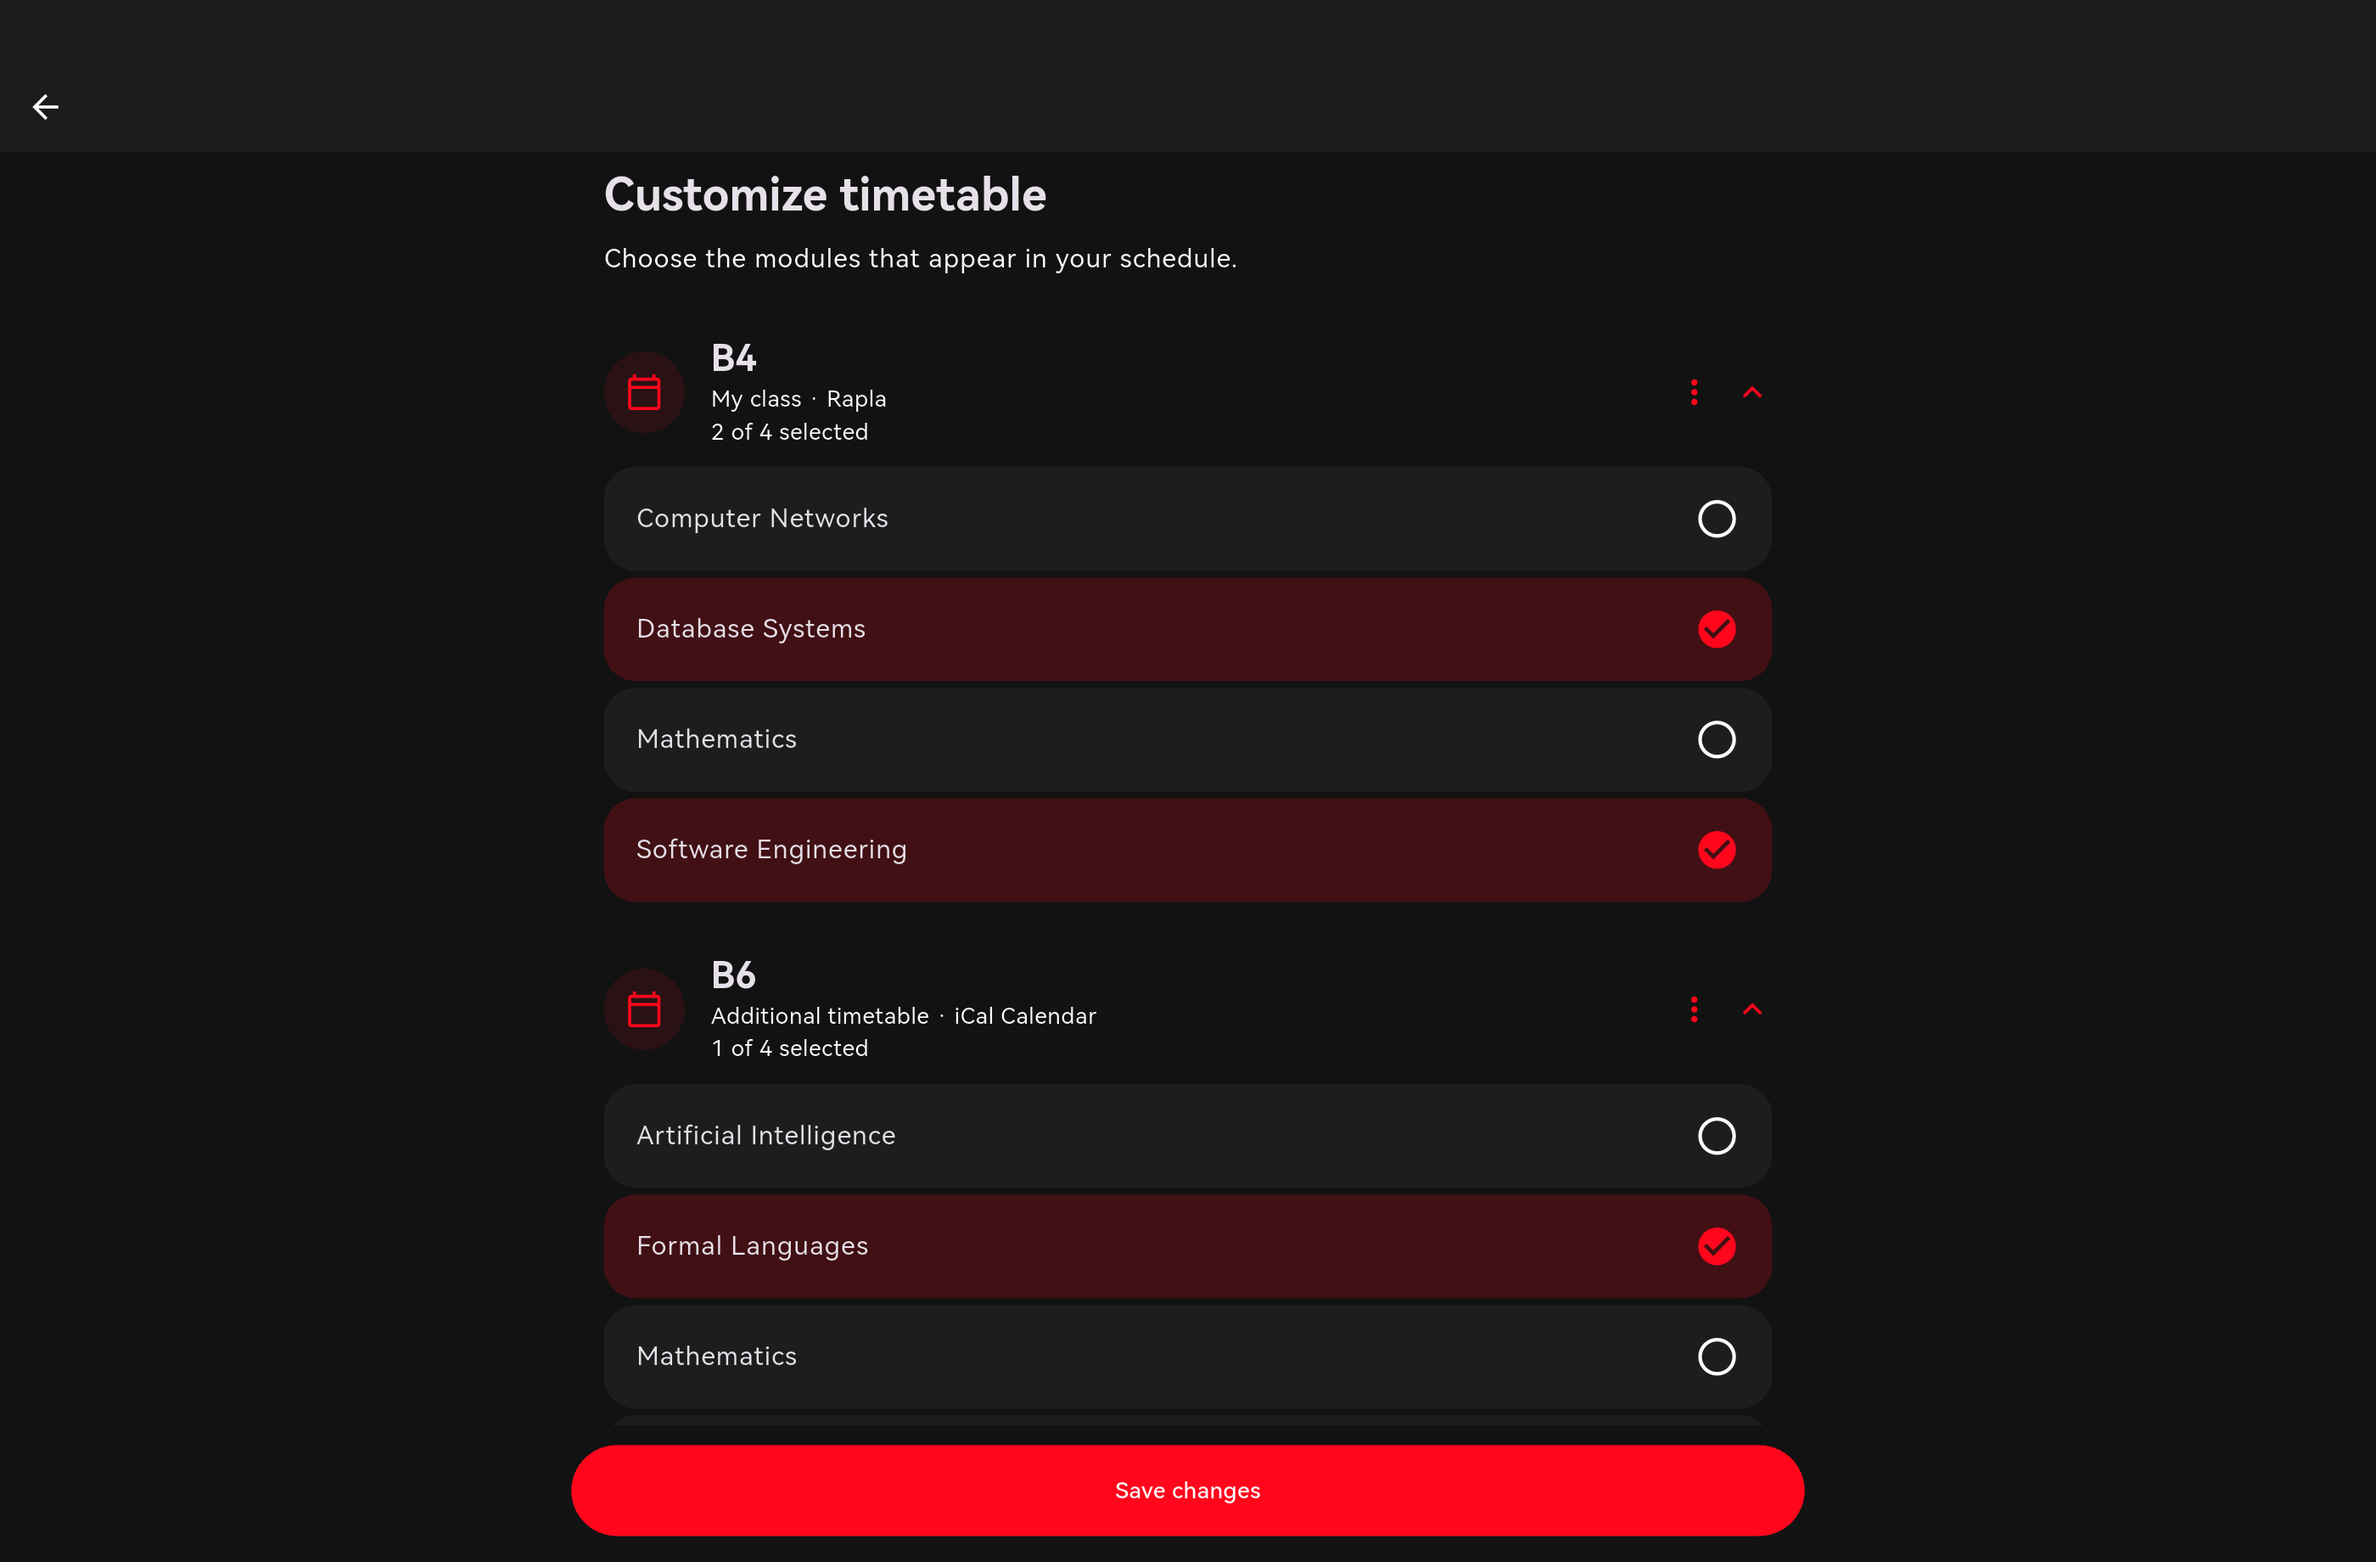
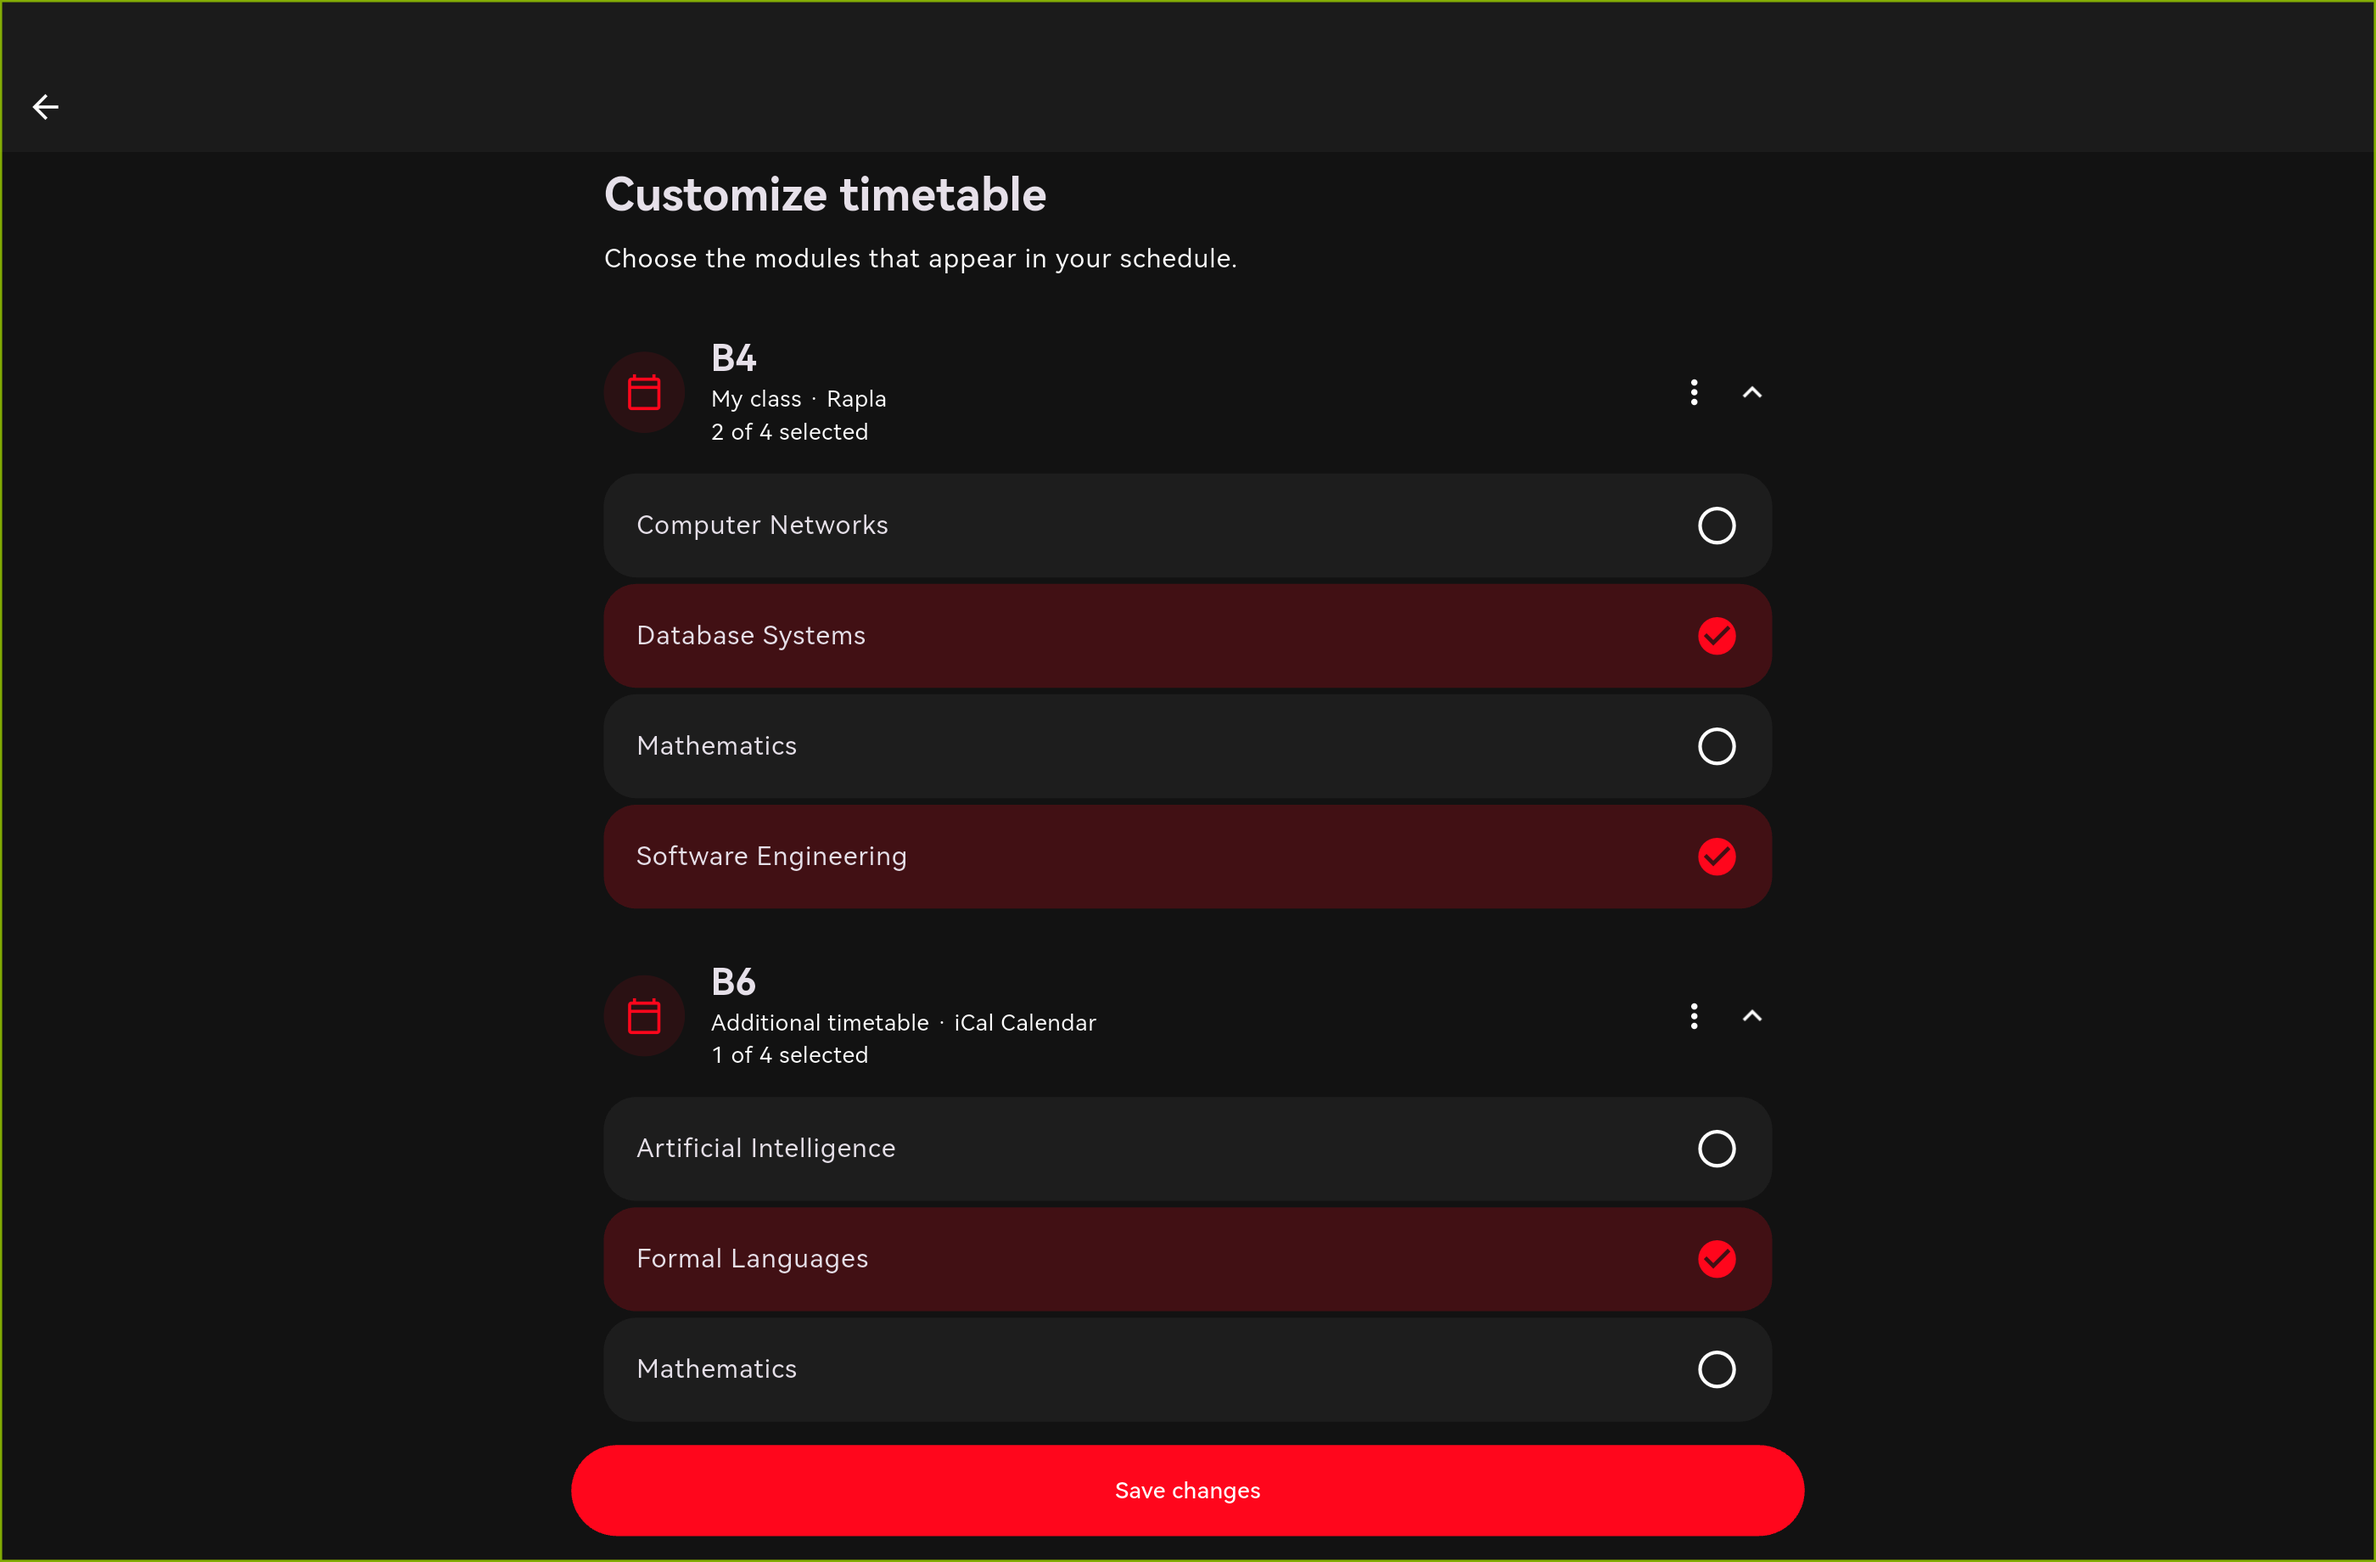
Refresh tablet screenshots and simplify visual capture

diff --git a/integration_test/timetable_customization_test.dart b/integration_test/timetable_customization_test.dart
@@ -138,7 +138,11 @@ void main() {
     await tester.tap(find.text('Mathematics'));
     await tester.tap(find.text('Computer Networks'));
     await demoPause();
-    await tester.ensureVisible(find.text('Add timetable'));
+    await tester.scrollUntilVisible(
+      find.text('Add timetable'),
+      200,
+      scrollable: find.byType(Scrollable).first,
+    );
     await tester.tap(find.text('Add timetable'));
     await tester.pumpAndSettle();
     await tester.enterText(find.byType(TextFormField).at(0), 'B6');
@@ -219,10 +223,6 @@ void main() {
     theme.value = ThemeMode.dark;
     await tester.pumpAndSettle();
     await binding.takeScreenshot('timetable-tablet-dark');
-    await tester.ensureVisible(find.text('Add timetable'));
-    await tester.pumpAndSettle();
-    await binding.takeScreenshot('timetable-tablet-dark-modules');
-    await tester.ensureVisible(find.text('Customize timetable'));
     locale.value = const Locale('de');
     await tester.pumpAndSettle();
     expect(find.text('Stundenplan anpassen'), findsOneWidget);

diff --git a/screenshots/timetable-customization/README.md b/screenshots/timetable-customization/README.md
@@ -8,9 +8,10 @@ then reopened after the server stops to verify the offline path.
 
 - `timetable-tablet-light.png`: English, light theme.
 - `timetable-tablet-dark.png`: English, dark theme.
-- `timetable-tablet-dark-modules.png`: second source and add action in dark theme.
 - `timetable-tablet-dark-de.png`: German, dark theme.
-- `timetable-tablet-flow.mp4`: source configuration and module selection flow.
+
+Video capture is unavailable on this tablet because its Android image does not
+include `screenrecord`. The screenshots are the available visual evidence.
 
 Reproduce visual QA with the current stable Flutter SDK:
 
